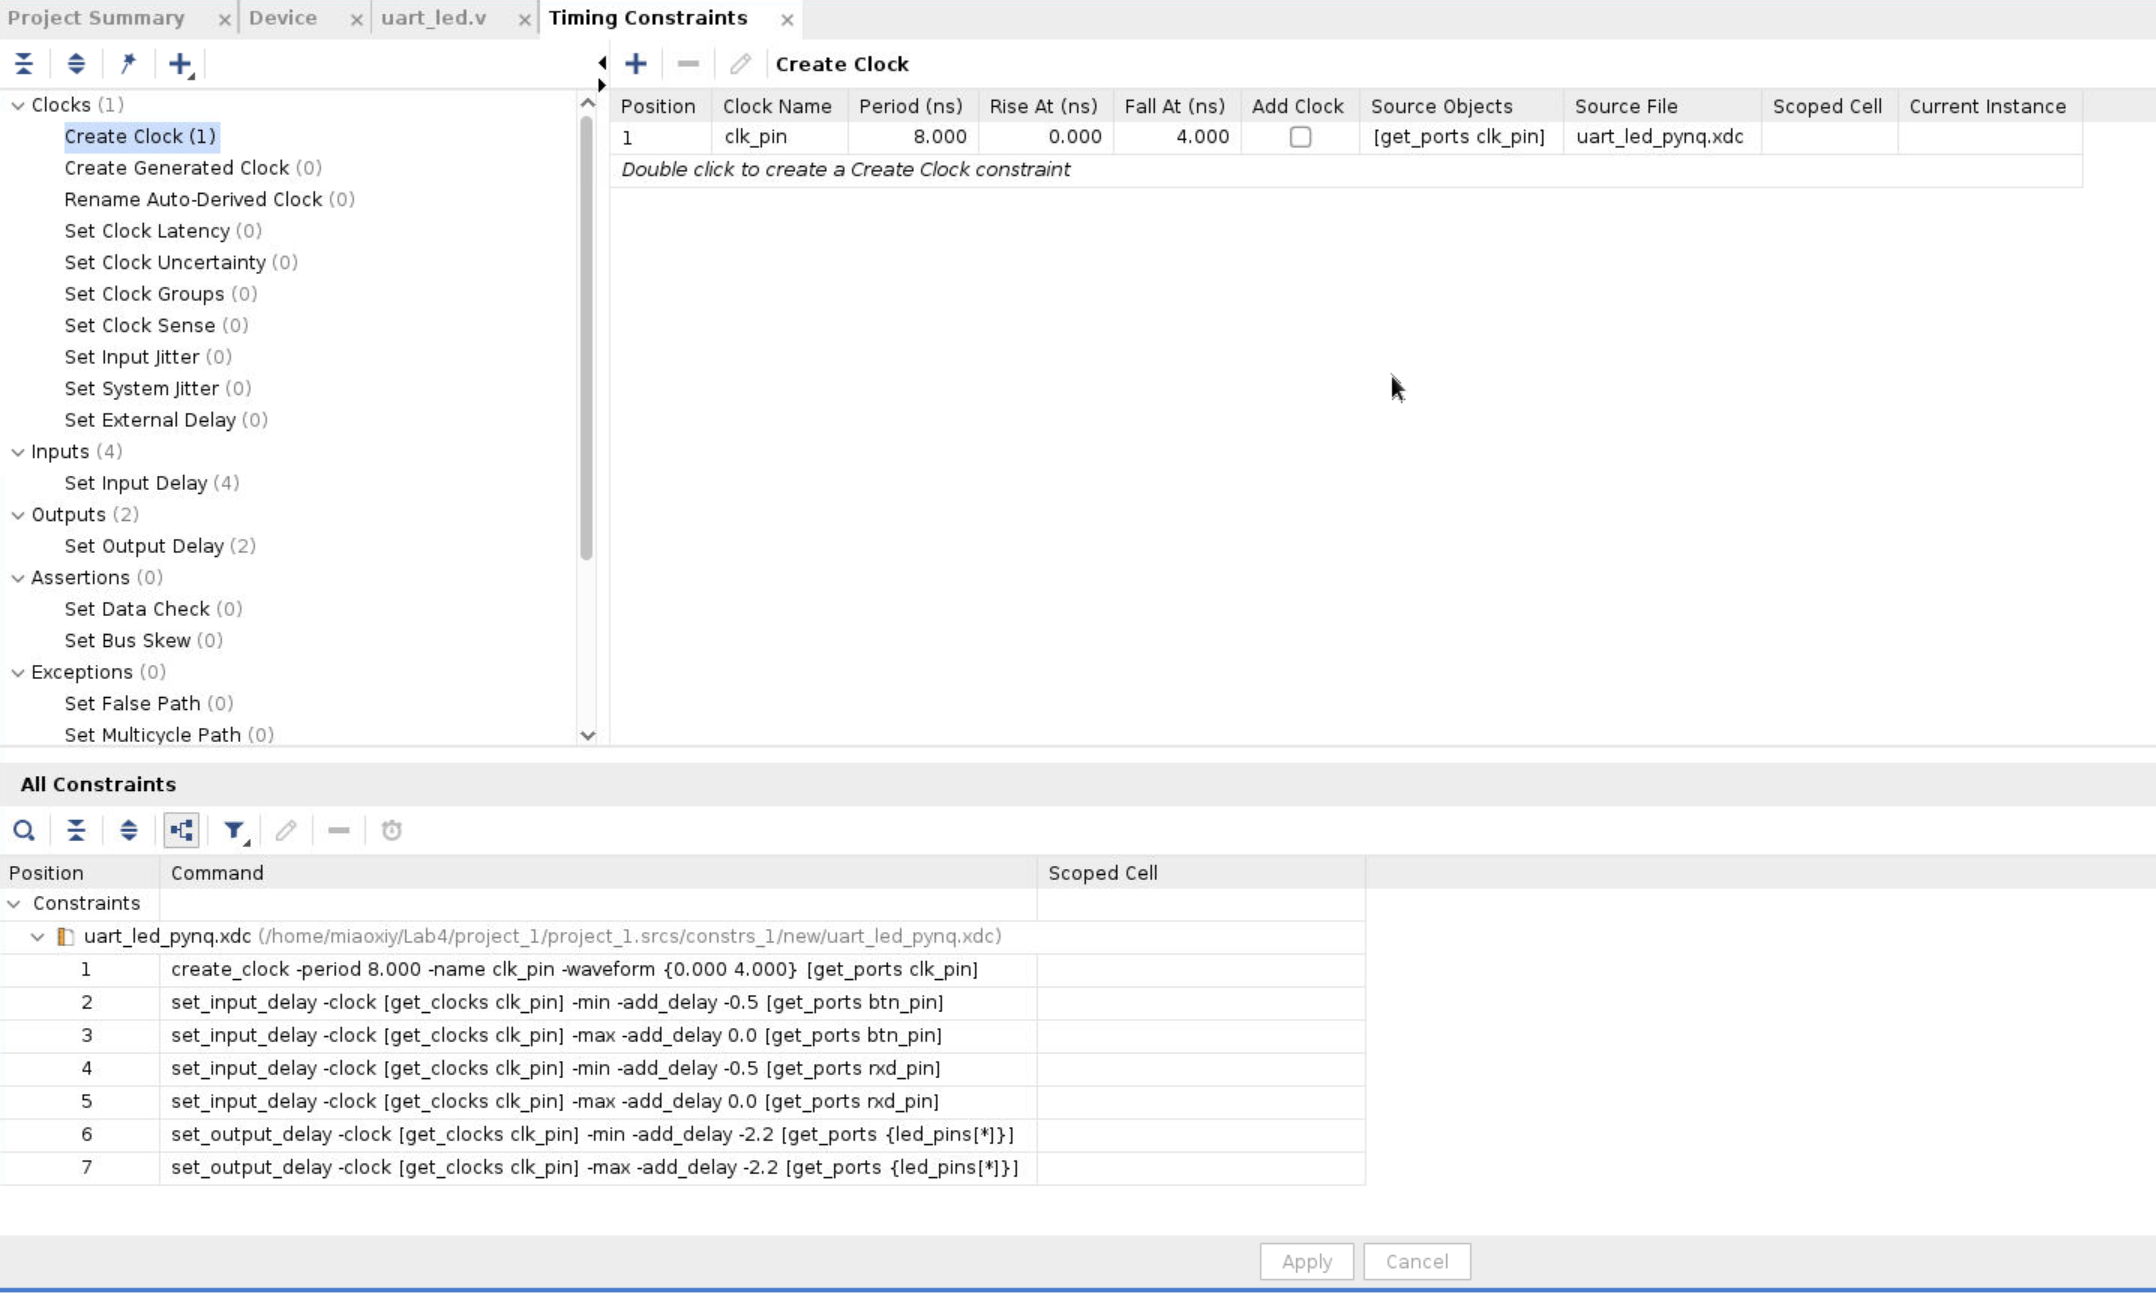
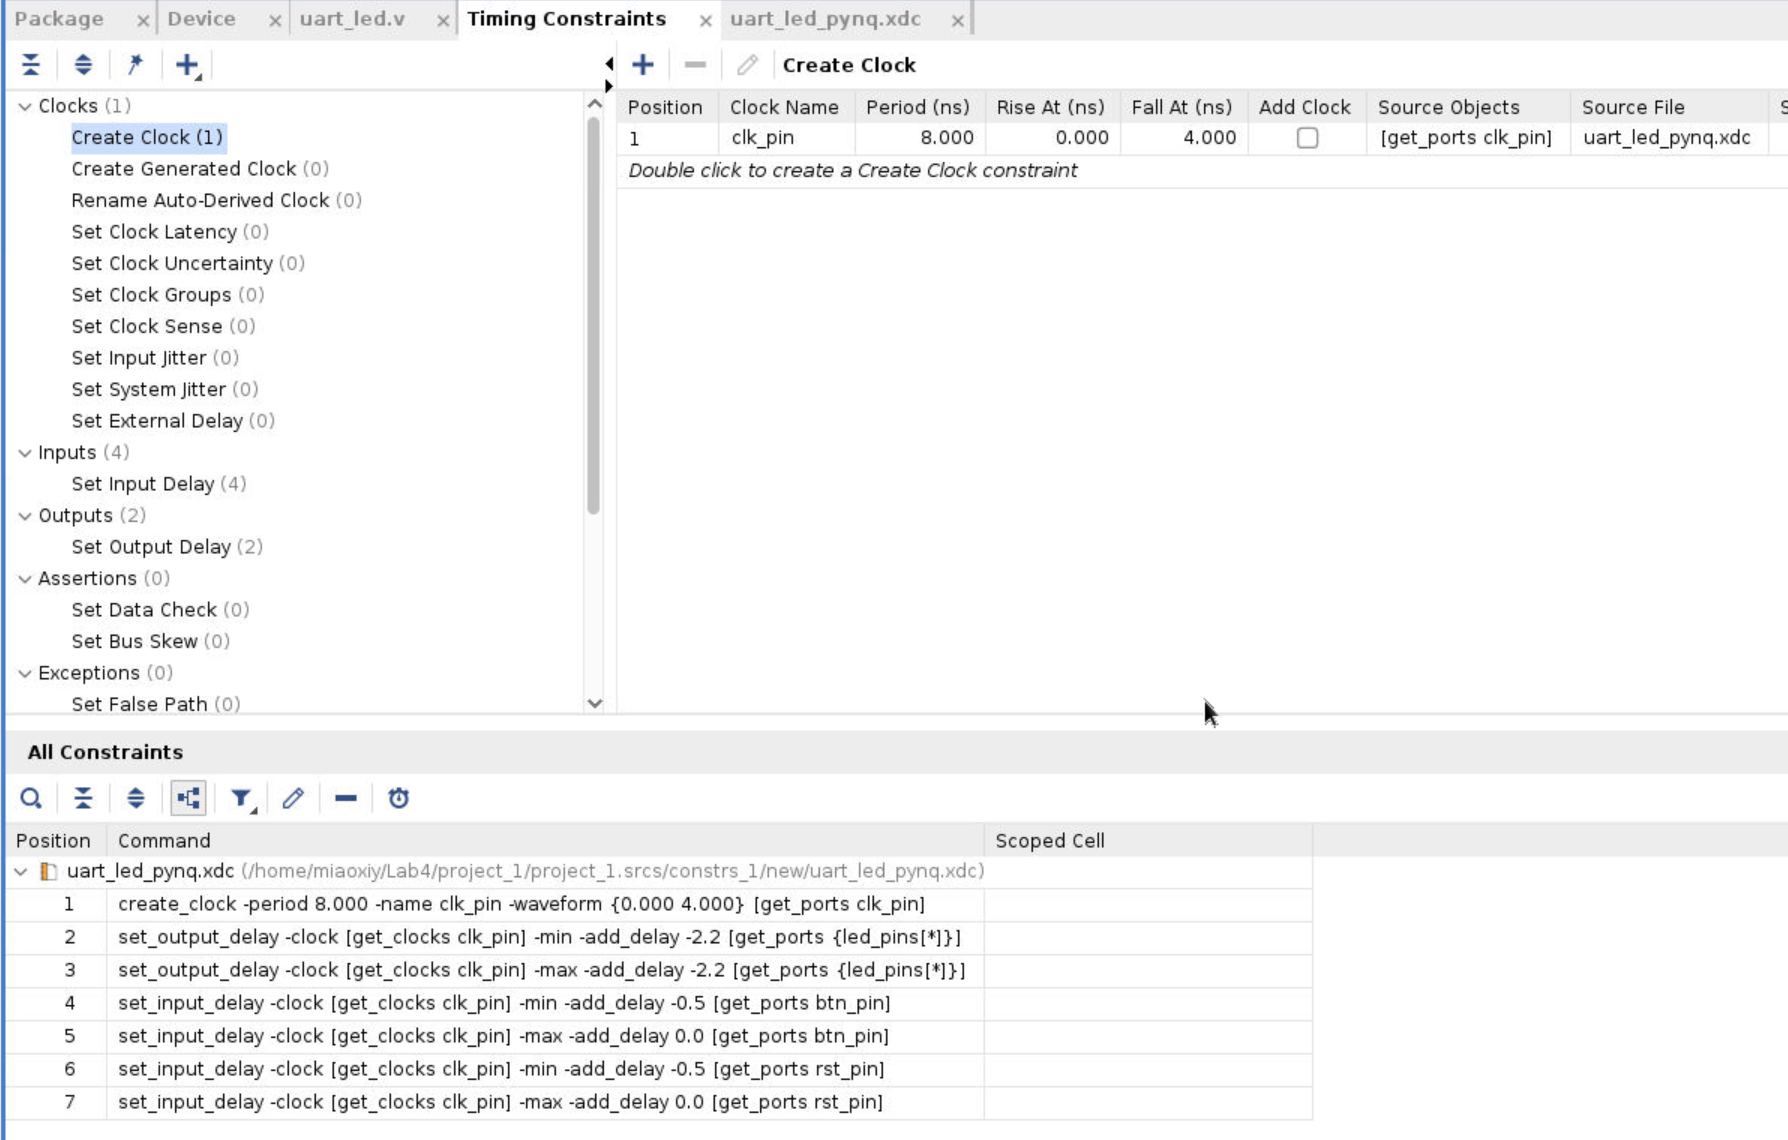
Lab3 (#48)
* Update Lab3_IO_Planning.md

* Add files via upload

* Add files via upload

* Add files via upload

* Add files via upload

* Add files via upload

Changed region(s): [[0.0, 0.0, 1.0, 1.0], [0.4922, 0.6447, 0.5537, 0.6754]]

diff --git a/docs/Labs/Lab3_IO_Planning.md b/docs/Labs/Lab3_IO_Planning.md
@@ -127,7 +127,7 @@ The uart_led_{BOARDS}.xdc file will be created and added to the Sources tab.
 
 * The wizard identifies Input Delays needed for the btn_pin and rst_pin pins. Do the following:
 
-    1. Press Ctrl and select the two rows.
+    1. Here you will see three rows: btn_pin, rst_pin, and rxd_pin. We only need to identify Input Delays for the btn_pin and rst_pin pins. Press Ctrl and select the two rows (btn_pin and rst_pin).
 
     2. Enter the tco_min value to be -0.5 ns and everything else as 0 ns. Click Apply.
 
@@ -149,7 +149,7 @@ The uart_led_{BOARDS}.xdc file will be created and added to the Sources tab.
 
 <div align=center><img src="imgs/4_14.png" alt="drawing" width="600"/></div>
 
-* Note the wizard generated the clk_pin constraint for a 8 ns period (or 125 MHz) (PYNQ-Z2). Notice in the All Constraints window, 7/9 constraints will be created. There is no need to click Apply since the constraints have already been applied in the Constraints Wizard.
+* Note the wizard generated the clk_pin constraint for an 8 ns period (or 125 MHz) (PYNQ-Z2). Notice in the All Constraints window, 7/9 constraints will be created. There is no need to click Apply since the constraints have already been applied in the Constraints Wizard.
 
 <div align=center><img src="imgs/4_15.png" alt="drawing" width="1000"/></div>
 
